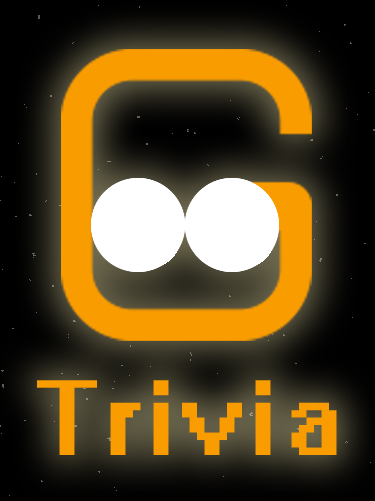
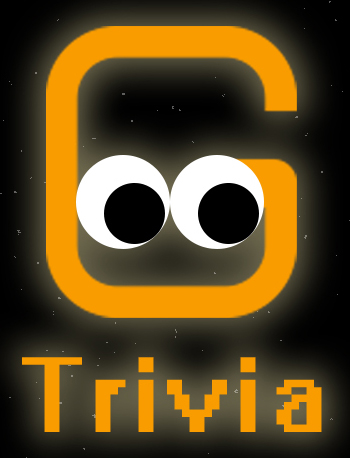
header 和 footer 簡略完成 grid 內容更新

diff --git a/Pages.html b/Pages.html
@@ -8,97 +8,118 @@
 	<link rel="stylesheet" href="https://maxcdn.bootstrapcdn.com/bootstrap/3.3.7/css/bootstrap.min.css">
 	<script src="https://ajax.googleapis.com/ajax/libs/jquery/3.3.1/jquery.min.js"></script>
 	<script src="https://maxcdn.bootstrapcdn.com/bootstrap/3.3.7/js/bootstrap.min.js"></script>
-	<script src="js/modernizr.custom.js"></script>
 	<link rel="stylesheet" type="text/css" href="css/component.css" />
 </head>
 
 <body>
-	<div class="container demo-7">
-		<ul class="grid cs-style-7">
-			<li>
-				<figure>
-					<img src="images/1.png" alt="img06">
-					<figcaption>
-						<h3>遊戲名字</h3>
-						<span>Jacob Cummings</span>
-					</figcaption>
-				</figure>
-			</li>
-			<li>
-				<figure>
-					<img src="images/2.png" alt="img04">
-					<figcaption>
-						<h3>Settings</h3>
-						<span>Jacob Cummings</span>
-					</figcaption>
-				</figure>
-			</li>
-			<li>
-				<figure>
-					<img src="images/3.png" alt="img02">
-					<figcaption>
-						<h3>Music</h3>
-						<span>Jacob Cummings</span>
-					</figcaption>
-				</figure>
-			</li>
-			<li>
-				<figure>
-					<img src="images/4.png" alt="img05">
-					<figcaption>
-						<h3>Safari</h3>
-						<span>Jacob Cummings</span>
-					</figcaption>
-				</figure>
-			</li>
-			<li>
-				<figure>
-					<img src="images/5.png" alt="img01">
-					<figcaption>
-						<h3>Camera</h3>
-						<span>Jacob Cummings</span>
-					</figcaption>
-				</figure>
-			</li>
-			<li>
-				<figure>
-					<img src="images/6.png" alt="img03">
-					<figcaption>
-						<h3>Phone</h3>
-						<span>Jacob Cummings</span>
-					</figcaption>
-				</figure>
-			</li>
-			<li>
-				<figure>
-					<img src="images/7.png" alt="img05">
-					<figcaption>
-						<h3>Safari</h3>
-						<span>Jacob Cummings</span>
-					</figcaption>
-				</figure>
-			</li>
-			<li>
-				<figure>
-					<a href="#"><img src="images/8.png" alt="img01"></a>
-					<figcaption>
-						<h3>Camera</h3>
-						<span>Jacob Cummings</span>
-					</figcaption>
-				</figure>
-			</li>
-			<li>
-				<figure>
-					<a href="#"><img src="images/5.gif" alt="img03"></a>
-					<figcaption>
-						<h3>Phone</h3>
-						<span>Jacob Cummings</span>
-					</figcaption>
-				</figure>
-			</li>
-		</ul>
-	</div><!-- /container -->
-	<script src="js/toucheffects.js"></script>
+	<div class="container ">
+		<div class="navbar">
+			<div class="logo-wrapper">
+				<div class="logo"><img class="logo" src="images/head.png" height="65"></div>
+			</div>
+			<div class="half">
+				<ul class="left-navlist">
+					<li><a href="#">LinkA</a></li>
+					<li><a href="#">LinkB</a></li>
+				</ul>
+			</div>
+			<div class="half">
+				<ul class="right-navlist">
+					<li><a href="#">LinkC</a></li>
+					<li><a href="#">LinkD</a></li>
+				</ul>
+			</div>
+		</div>
+		<div class="container demo-7">
+			<ul class="grid cs-style-7">
+				<script src="js/modernizr.custom.js"></script>
+				<script src="js/toucheffects.js"></script>
+				<li>
+					<figure>
+						<a href="#"><img src="images/俄羅斯方塊.jpg" alt="img01"></a>
+						<figcaption>
+							<h3>俄羅斯方塊</h3>
+							<span>Teris Battle</span>
+						</figcaption>
+					</figure>
+				</li>
+				<li>
+					<figure>
+						<a href="#"><img src="images/大富翁.jpg" alt="img02"></a>
+						<figcaption>
+							<h3>大富翁</h3>
+							<span>Monopoly</span>
+						</figcaption>
+					</figure>
+				</li>
+				<li>
+					<figure>
+						<a href="#"><img src="images/小精靈.jpg" alt="img03"></a>
+						<figcaption>
+							<h3>小精靈</h3>
+							<span>PAC-MAN</span>
+						</figcaption>
+					</figure>
+				</li>
+				<li>
+					<figure>
+						<a href="#"><img src="images/彈珠檯.jpg" alt="img04"></a>
+						<figcaption>
+							<h3>彈珠檯</h3>
+							<span>Pinball</span>
+						</figcaption>
+					</figure>
+				</li>
+				<li>
+					<figure>
+						<a href="#"><img src="images/新接龍.jpg" alt="img05"></a>
+						<figcaption>
+							<h3>新接龍</h3>
+							<span>FreeCell</span>
+						</figcaption>
+					</figure>
+				</li>
+				<li>
+					<figure>
+						<a href="#"><img src="images/泡泡龍.jpg" alt="img06"></a>
+						<figcaption>
+							<h3>泡泡龍</h3>
+							<span>Bubble Bobble</span>
+						</figcaption>
+					</figure>
+				</li>
+				<li>
+					<figure>
+						<a href="#"><img src="images/貪吃蛇.jpg" alt="img07"></a>
+						<figcaption>
+							<h3>貪吃蛇</h3>
+							<span>Snake</span>
+						</figcaption>
+					</figure>
+				</li>
+				<li>
+					<figure>
+						<a href="#"><img src="images/踩地雷.jpg" alt="img08"></a>
+						<figcaption>
+							<h3>踩地雷</h3>
+							<span>Minesweeper</span>
+						</figcaption>
+					</figure>
+				</li>
+				<li>
+					<figure>
+						<a href="#"><img src="images/馬力歐.jpg" alt="img09"></a>
+						<figcaption>
+							<h3>馬力歐</h3>
+							<span>Mario</span>
+						</figcaption>
+					</figure>
+				</li>
+			</ul>
+		</div><!-- /container -->
+		<div class="footer">
+			<h5>Copyright © 2018 Weekly Aplaca. All rights reserved.</h5>
+		</div>
 </body>
 
 </html>

diff --git a/css/component.css b/css/component.css
@@ -7,8 +7,56 @@ body {
 	background: #000000;
 }
 
+.navbar {
+	background-color: #000000;
+	position: fixed;
+	z-index: 999;
+	width: 85%;
+	height: 13.5%;
+	opacity: 0.85;
+}
+
+.logo-wrapper {
+	text-align: center;
+	margin-bottom: -37px;
+}
+
+.logo {
+	width: auto;
+	display: inline-block;
+	margin-top: 5px;
+}
+
+.navbar li {
+	display: inline-block;
+	padding: 0 15px;
+	color: #ffffff;
+}
+
+.navbar a{
+	text-decoration:none;
+	color: #ffffff;
+}
+
+.half {
+	width: 50%;
+	display: block;
+	float: left;
+}
+
+.right-navlist {
+	padding-left: 70px;
+	margin-top: -6px;
+}
+
+.left-navlist {
+	text-align: right;
+	padding-right: 70px;
+	margin-top: -6px;
+}
+
 .grid {
-	padding: 20px 20px 100px 20px;
+	padding: 50px 20px 50px 0px;
 	max-width: 1300px;
 	margin: 0 auto;
 	list-style: none;
@@ -17,7 +65,7 @@ body {
 
 .grid li {
 	display: inline-block;
-	width: 350px;
+	width: 300px;
 	margin: 0;
 	padding: 50px;
 	text-align: center;
@@ -51,8 +99,8 @@ body {
 	color: #fff;
 }
 
-.grid figcaption span:before {
-	content: 'by ';
+.grid figcaption span {
+	padding-top: 10px;
 }
 
 /* Caption Style 7 */
@@ -89,13 +137,13 @@ body {
 .no-touch .cs-style-7 figure:hover figcaption,
 .cs-style-7 figure.cs-hover figcaption {
 	opacity: 1;
-	height: 125%;
+	height: 138%;
 	box-shadow: 0 0 0 10px #2c3f52;
 }
 
 /*項目白字*/
 .cs-style-7 figcaption h3 {
-	margin-top: 115%;
+	margin-top: 105%;
 	text-align: center;
 }
 
@@ -133,6 +181,18 @@ body {
 	font-size: 14px;
 	line-height: 18px;
   }
+
+.footer {
+	background-color:#000000;
+	z-index: 999;
+	left: 0;
+	bottom: 0;
+	width: 100%;
+	color: white;
+	text-align: center;
+	opacity: 0.85;
+	padding: 10px;
+}
 
 @media screen and (max-width: 31.5em) {
 	.grid {

diff --git a/index.html b/index.html
@@ -17,7 +17,7 @@
 
 <body>
     <div id="test">
-        <img src="images/head.png" width="265" height="350" />
+        <img src="images/head_b.png" width="265" height="350" />
         <img id="ball1" src="images/ball.png" alt="ball">
         <img id="ball2" src="images/ball.png" alt="ball">
         <script src="js/Eyes.js"></script>
